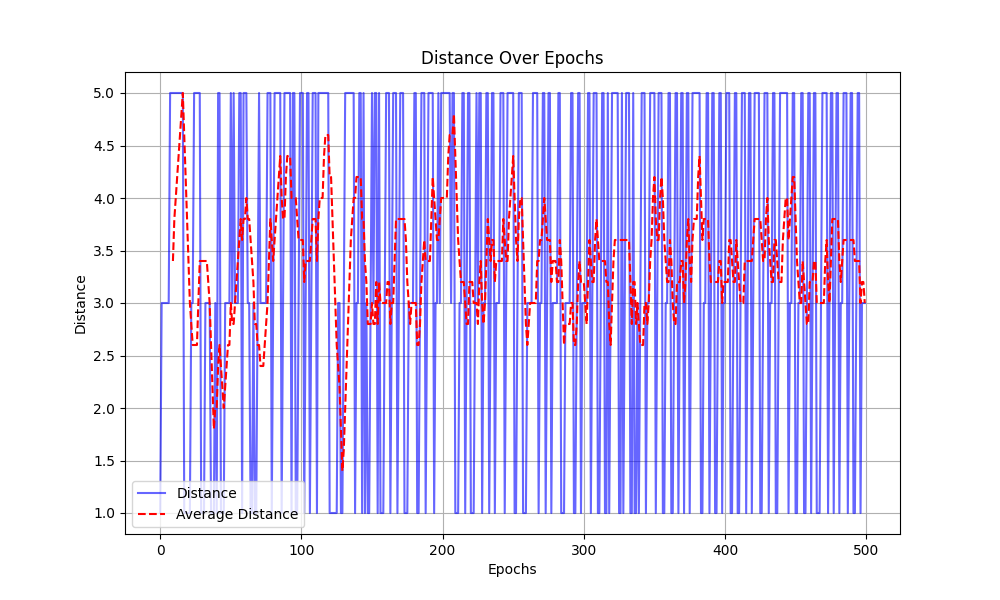
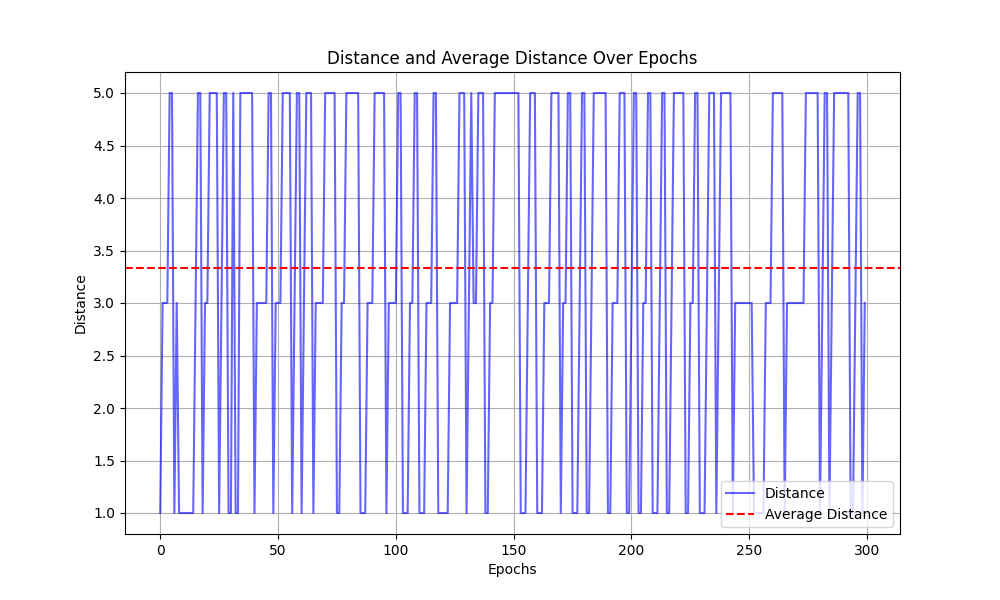
graphs created

diff --git a/src/main.py b/src/main.py
@@ -51,9 +51,9 @@ epsilon_values = [1.0] # Epsilon starts at 1.0, decays overtime
 epsilon_end = 0.10   # Minimum exploration rate
 decay_rate = 0.9   # How fast epsilon decreases
 
-epoch_values = [100]
+epoch_values = [300]
 results = []
-mode = "Random"
+mode = "QRL"
 
 # Sweep through all combinations of parameters
 for alpha, gamma, epsilon, epochs in itertools.product(alpha_values, gamma_values, epsilon_values, epoch_values):
@@ -69,7 +69,7 @@ for alpha, gamma, epsilon, epochs in itertools.product(alpha_values, gamma_value
     distances = np.zeros(epochs)
 
     # Initialize the track and trains
-    track = IntermediateTrack()
+    track = SimpleTrack()
     train1 = Train(track, start_position=0)
     train2 = Train(track, start_position=7)
 
@@ -96,7 +96,7 @@ for alpha, gamma, epsilon, epochs in itertools.product(alpha_values, gamma_value
             current_distance = simulate_train_loop_random(train1, train2, track, a_train1)
 
         else:
-            current_distance = simulate_train_loop_predictable(train1, train2, track, a_train1)
+            current_distance = simulate_train_loop_control(train1, train2, track, a_train1)
         
         distances[i] = current_distance
 
@@ -158,7 +158,7 @@ plt.xlabel('Epochs')
 plt.ylabel('Probability')
 plt.legend(loc='upper right')
 plt.grid(True)
-plt.savefig('loop_probability_plot_M_M1_best_model_control_test.png')
+plt.savefig('loop_probability_plot_M_M1_best_model__qrl.png')
 plt.show()
 
 
@@ -179,12 +179,12 @@ plt.legend()
 plt.grid(True)
 
 
-plt.savefig('distance_plot_best_model_control_test.png')
+plt.savefig('distance_plot_best_model__qrl.png')
 plt.show()
 
 
 df = pd.DataFrame(results)
-df.to_csv("q_learning_results_simple_best_model_control_test.csv", index=False)
+df.to_csv("q_learning_results_simple_best_model_qrl.csv", index=False)
 
 
 plt.figure(figsize=(10, 6))

diff --git a/src/train_simulation.py b/src/train_simulation.py
@@ -141,7 +141,7 @@ def simulate_train_loop_random(train1, train2, track, takeAlternateRoute):
     
     while True:
         train1.move(takeAlternateRoute)
-        train2.move(random.randint(0, 2))
+        train2.move(random.randint(0, 1))
 
         if train1.current_node.position == start_position:
             break
@@ -166,8 +166,8 @@ def simulate_train_loop_control(train1, train2, track, takeAlternateRoute):
     start_position = train1.current_node.position
 
     while True:
-        train1.move(random.randint(0, 2))
-        train2.move(random.randint(0, 2))
+        train1.move(random.randint(0, 1))
+        train2.move(random.randint(0, 1))
 
         if train1.current_node.position == start_position:
             break
